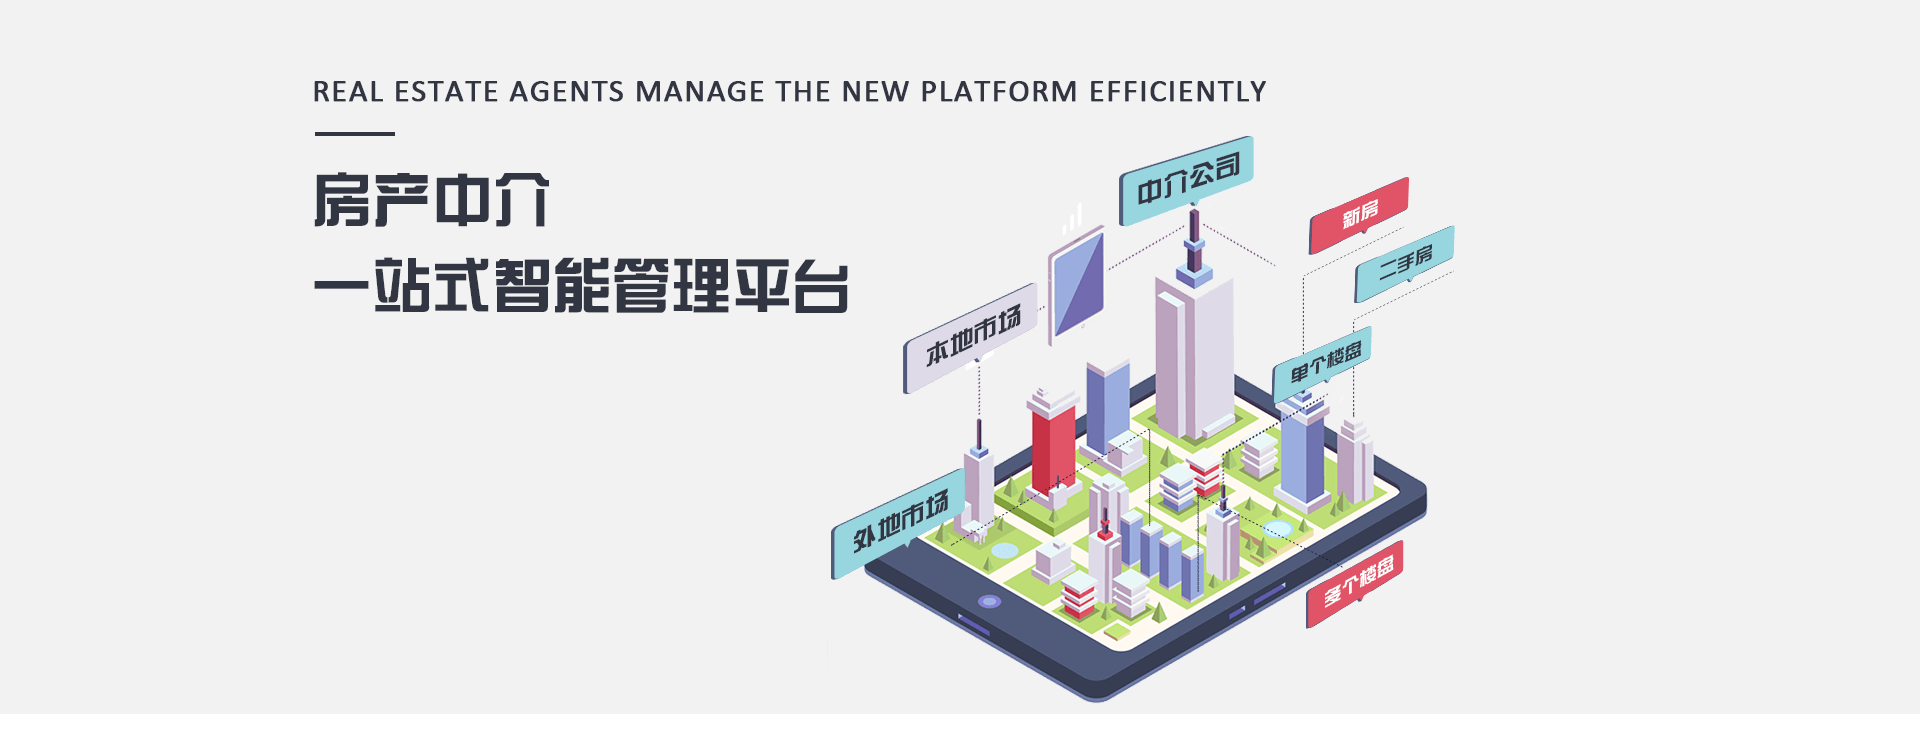
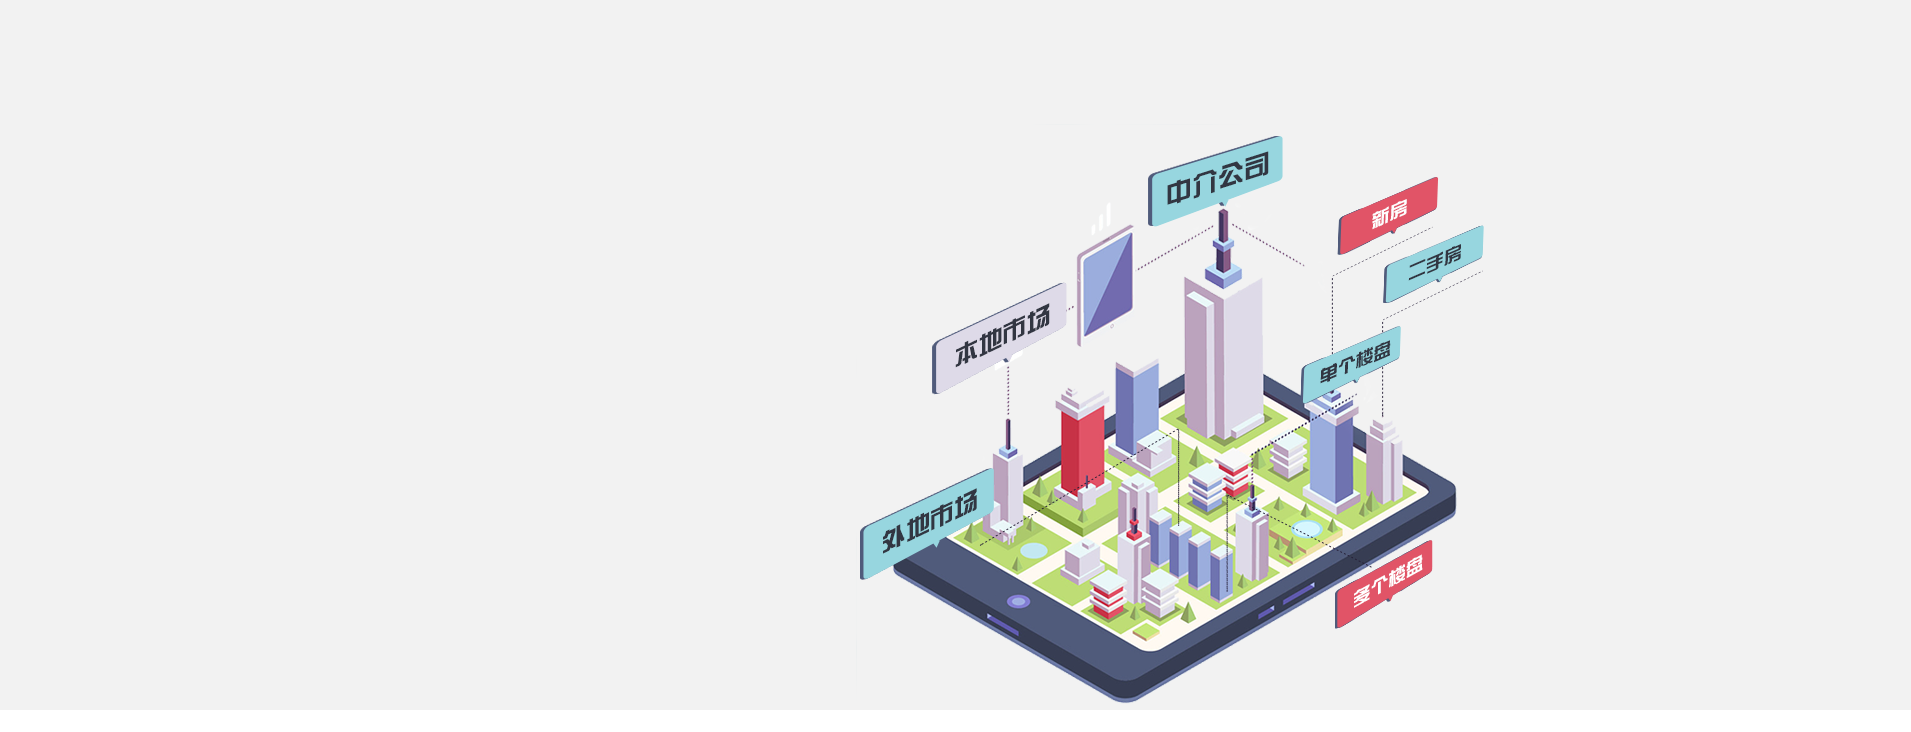
提交

diff --git a/css/login.css b/css/login.css
@@ -54,7 +54,7 @@ li {
 }
 
 .menuList .menu:hover {
-    color: #777;
+    color: #7cc5ff;
     transition: color 0.5s;
 }
 
@@ -420,13 +420,14 @@ li {
     background-position: center;
     z-index: 99;
 }
-
+.dot.red {
+    background-image: url(../img/red@2x.png);
+}
 .dot:hover {
     width: 19px;
     height: 19px;
     background: url(../img/yellow@2x.png);
 }
-
 .content_map {
     display: inline-block;
     background: url(../img/map@2x.png) no-repeat;
@@ -436,13 +437,11 @@ li {
     position: relative;
     width: 717px;
 }
-
 .content-background {
     height: 770px;
     padding: 50px 0;
     background: url(../img/about-bg@2x.png) no-repeat top center;
 }
-
 .dot .alert {
     position: absolute;
     display: none;

diff --git a/css/intermediary.css b/css/intermediary.css
@@ -70,7 +70,7 @@ li {
 }
 
 .menuList .menu:hover {
-    color: #777;
+    color: #7cc5ff;
     transition: color 0.5s;
 }
 
@@ -88,7 +88,21 @@ li {
     line-height: 160%;
     text-align: center;
 }
-
+.pos-relative .img-text-icon{
+    position: absolute;
+    width: 58%;
+    top:19%;
+    left:5%;
+    animation: rotateAnim1 1s;
+}
+@keyframes rotateAnim1 {
+    0% {
+        transform: translate(0, -300px);
+    }
+    100% {
+        transform: translate(0, 0);
+    }
+}
 .content-background {
     height: 770px;
     padding: 50px 0;

diff --git a/css/caseField.css b/css/caseField.css
@@ -265,9 +265,25 @@ li {
 }
 
 .menuList .menu:hover {
-    color: #777;
+    color: #7cc5ff;
     transition: color 0.5s;
 }
+.content_img .img-text-icon{
+    position: absolute;
+    top:22%;
+    left: 61%;
+    animation: rotateAnim1 1s;
+}
+
+@keyframes rotateAnim1 {
+    0% {
+        transform: translate(0, -300px);
+    }
+    100% {
+        transform: translate(0, 0);
+    }
+}
+
 .periphery{
     width: 1024px;
     margin: 0 auto;

diff --git a/page/caseField/index.html b/page/caseField/index.html
@@ -38,8 +38,9 @@
                 </ul>
             </div>
         </div>
-        <div class='content_img'>
+        <div class='content_img pos-relative'>
             <img class='img' src='../../img/field_banner@2x.png' />
+            <img class='img-text-icon' src='../../img/text@2x11z.png'/>
         </div>
         <div class='hous'>
             <div class="housImg-block">

diff --git a/page/intermediary/index.html b/page/intermediary/index.html
@@ -39,8 +39,9 @@
         </div>
     </div>
     <div class='intermediary'>
-        <div>
+        <div class='pos-relative'>
             <img class='content_img' src='../../img/mediation_banner@7x.png' />
+            <img class='img-text-icon' src='../../img/text@2x11z1a.png'/>
         </div>
         <div class='content-background'>
             <div class="content">

diff --git a/login/index.html b/login/index.html
@@ -123,7 +123,7 @@
                         </span>
                     </span>
                 </span>
-                <span class='dot dot4'>
+                <span class='dot red dot4'>
                     <span class="alert">
                         <img src="../img/coordinates_bg@2x.png" />
                         <span class="text">

diff --git a/css/button-3.css b/css/button-3.css
@@ -9,14 +9,14 @@
     user-select: none;
     outline: none;
     border-radius: 4px;
-    animation: rotateAnim3 4s;
+    animation: rotateAnim3 3s;
 }
 @keyframes rotateAnim3 {
     0% {
         background:none;
     }
     100% {
-        background: #038ee3;
+        background: #189dfe;
     }
 }
 

diff --git a/css/housRes.css b/css/housRes.css
@@ -66,7 +66,7 @@ li {
 }
 
 .menuList .menu:hover {
-    color: #777;
+    color: #7cc5ff;
     transition: color 0.5s;
 }
 .content-background-img{

diff --git a/css/channel.css b/css/channel.css
@@ -63,7 +63,7 @@ li {
 }
 
 .menuList .menu:hover {
-    color: #777;
+    color: #7cc5ff;
     transition: color 0.5s;
 }
 
